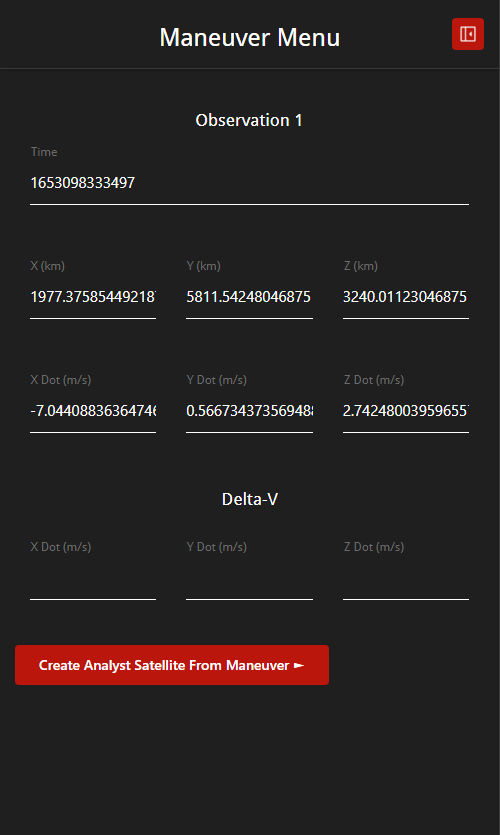
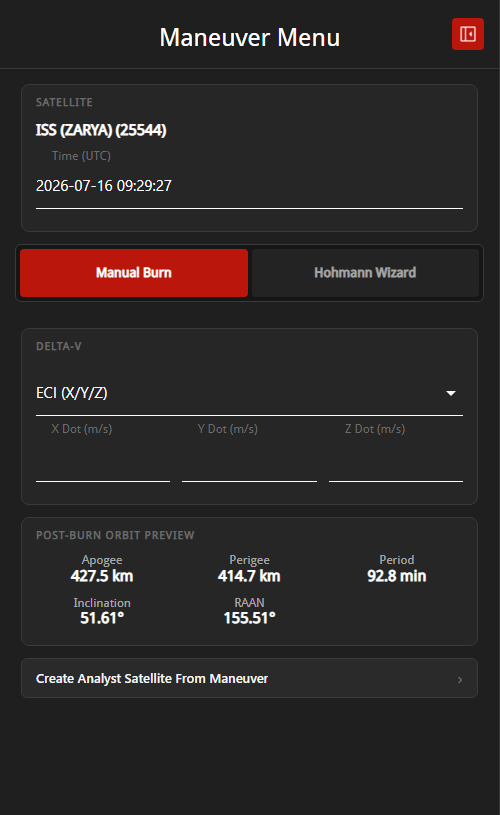
docs(maneuver): :memo: add Hohmann wizard help screenshot and refresh maneuver menu shot
- New maneuver-hohmann capture recipe: selects the ISS, times the burn at
  the selected satellite's next ascending node (the catalog can hold a
  stale duplicate under the same sccNum, so the node comes from the
  SelectSatManager object), and fills a GEO + 28.5 deg plane-change demo
- Capture pipeline now disables the onboarding tour (its shade intercepts
  clicks on fresh profiles) and hides the guest sponsor banner that
  overlapped tall side menus

diff --git a/scripts/capture-help-screenshots.ts b/scripts/capture-help-screenshots.ts
@@ -48,6 +48,8 @@ const waitForAppReady = async (page: Page, recipe: CaptureRecipe): Promise<void>
     isAutoStart: true,
     minLogLevel: 'WARN',
     isDisablePerformanceDowngrade: true,
+    // The onboarding tour shade intercepts clicks on fresh profiles
+    isDisableOnboarding: true,
     // Pro builds gate some plugins behind login; captures need the menus open
     isDisableLoginGate: true,
     plugins: recipe.plugins,
@@ -67,6 +69,8 @@ const waitForAppReady = async (page: Page, recipe: CaptureRecipe): Promise<void>
     () => (window as unknown as { keepTrack?: { isReady?: boolean } }).keepTrack?.isReady === true,
     { timeout: 20_000 },
   );
+  // The guest-mode sponsor banner overlaps tall side menus; ads never belong in help shots
+  await page.evaluate('document.getElementById(\'bottom-banner-sponsor\')?.style.setProperty(\'display\', \'none\')');
 };
 
 /**
@@ -729,11 +733,68 @@ const RECIPES: CaptureRecipe[] = [
     id: 'maneuver',
     plugins: { ManeuverPlugin: { enabled: true } },
     steps: async (page) => {
+      await selectSatellite(page, 'ISS (ZARYA)');
       await openPluginMenu(page, 'maneuver-bottom-icon');
       await page.locator('#maneuver-menu').waitFor({ state: 'visible', timeout: 10_000 });
-      await page.waitForTimeout(500);
+      await page.evaluate('document.getElementById(\'sat-infobox\')?.style.setProperty(\'display\', \'none\')');
+      await page.waitForTimeout(1_000);
     },
     shots: [{ name: 'maneuver-menu', selector: '#maneuver-menu' }],
+  },
+  {
+    id: 'maneuver-hohmann',
+    outDir: 'maneuver',
+    plugins: { ManeuverPlugin: { enabled: true } },
+    steps: async (page) => {
+      await selectSatellite(page, 'ISS (ZARYA)');
+      await openPluginMenu(page, 'maneuver-bottom-icon');
+      await page.locator('#maneuver-menu').waitFor({ state: 'visible', timeout: 10_000 });
+      await page.evaluate('document.getElementById(\'sat-infobox\')?.style.setProperty(\'display\', \'none\')');
+      /*
+       * Move the burn time to the next ascending-node crossing so the plane
+       * change is fully reachable (off-node burns clamp the rotation to the
+       * burn-point latitude, which would put a caution note in the shot).
+       */
+      await page.evaluate(`(() => {
+        const api = window.keepTrack.api;
+        // Use the SELECTED object: the catalog can hold a stale duplicate under the same sccNum
+        const sat = api.getPluginByName('SelectSatManager').primarySatObj;
+        const t0 = api.getTimeManager().simulationTimeObj.getTime();
+        let prevZ = sat.eci(new Date(t0)).position.z;
+        for (let m = 1; m <= 100; m++) {
+          const t = t0 + m * 60000;
+          const z = sat.eci(new Date(t)).position.z;
+          if (prevZ < 0 && z >= 0) {
+            let lo = t - 60000;
+            let hi = t;
+            for (let i = 0; i < 20; i++) {
+              const mid = (lo + hi) / 2;
+              if (sat.eci(new Date(mid)).position.z < 0) { lo = mid; } else { hi = mid; }
+            }
+            const input = document.getElementById('maneuver-sv-t1');
+            input.value = new Date(Math.floor(hi / 1000) * 1000).toISOString().slice(0, 19).replace('T', ' ');
+            input.dispatchEvent(new Event('change', { bubbles: true }));
+            return;
+          }
+          prevZ = z;
+        }
+      })()`);
+      // Switch to the wizard tab and plan a GEO transfer with a plane change
+      await page.evaluate('document.querySelector(\'#maneuver-tabs a[href="#maneuver-hohmann-tab"]\')?.dispatchEvent(new MouseEvent(\'click\', { bubbles: true }))');
+      await page.evaluate(`(() => {
+        const alt = document.getElementById('maneuver-hohmann-alt');
+        alt.value = '35786';
+        alt.dispatchEvent(new Event('input', { bubbles: true }));
+        const plane = document.getElementById('maneuver-hohmann-plane');
+        plane.checked = true;
+        plane.dispatchEvent(new Event('change', { bubbles: true }));
+        const inc = document.getElementById('maneuver-hohmann-inc');
+        inc.value = '28.5';
+        inc.dispatchEvent(new Event('input', { bubbles: true }));
+      })()`);
+      await page.waitForTimeout(1_000);
+    },
+    shots: [{ name: 'hohmann-wizard', selector: '#maneuver-menu' }],
   },
   {
     id: 'link-budget',